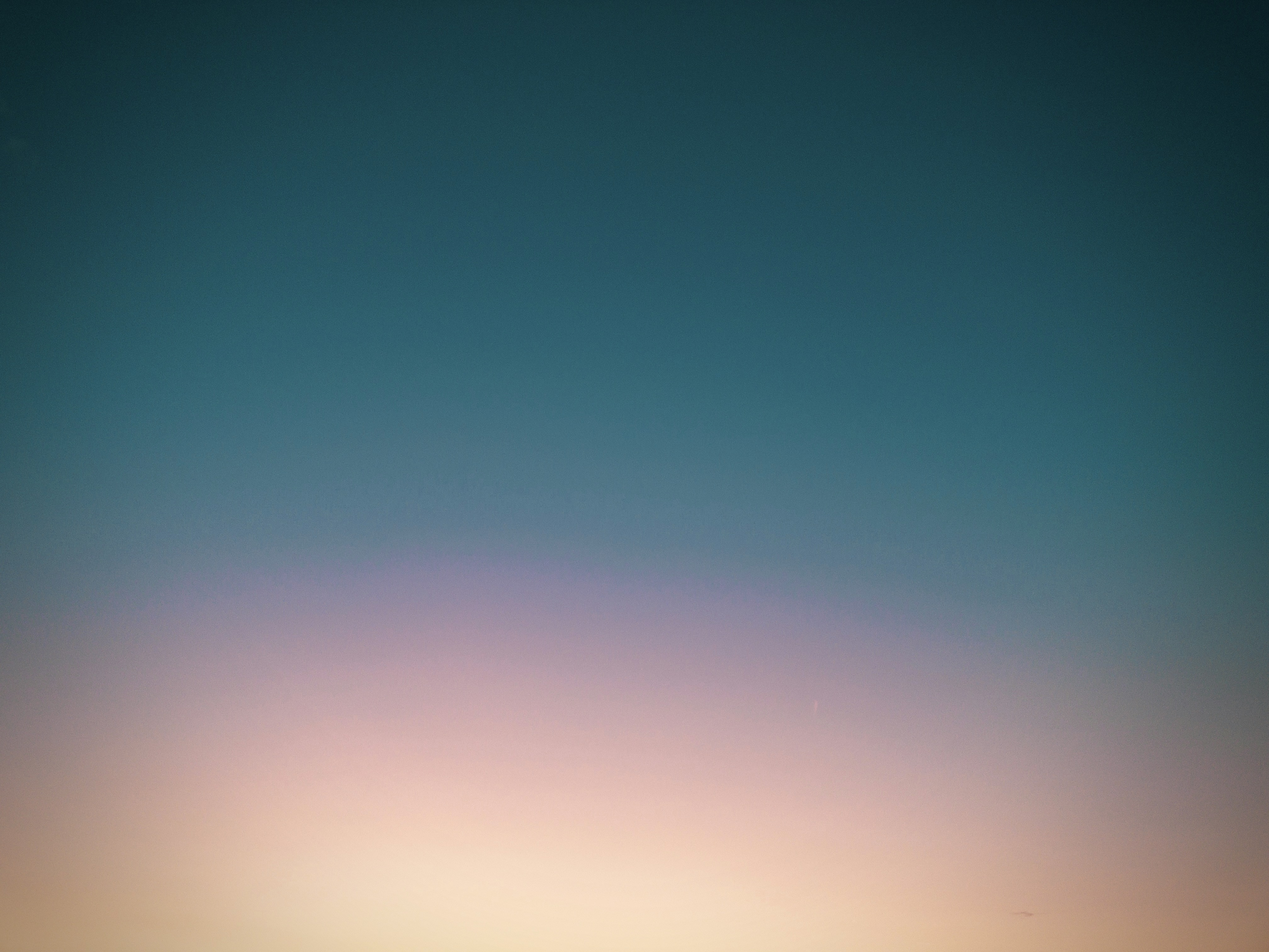
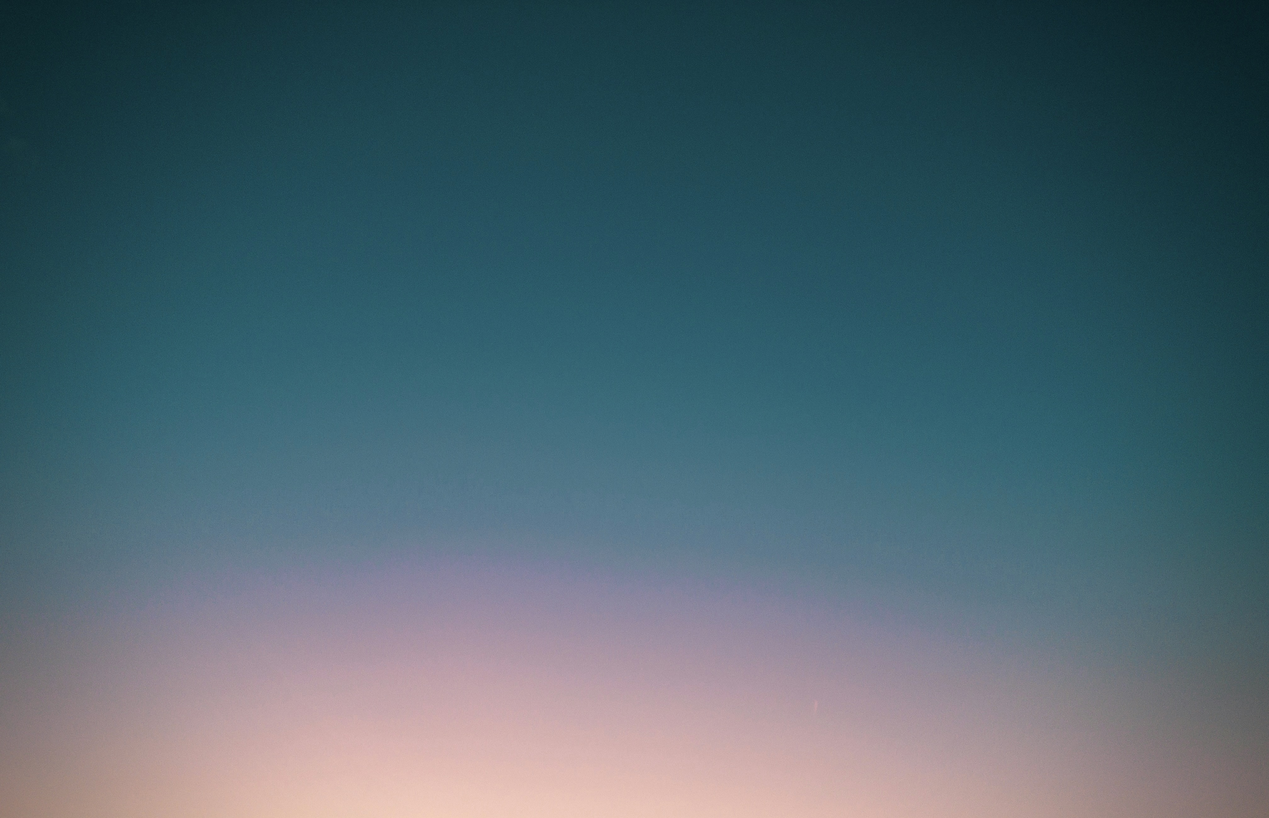
updated project info

diff --git a/index.html b/index.html
@@ -3,7 +3,7 @@
 <head>
 <meta charset="utf-8" />
 <meta name="viewport" content="width=device-width,initial-scale=1" />
-<title>with(in) — hyperSense Showcase, Spring 2026</title>
+<title>hyperSense: Augmenting Human Experience in Environments — Showcase, Spring 2026</title>
 
 <link rel="preconnect" href="https://fonts.googleapis.com" />
 <link rel="preconnect" href="https://fonts.gstatic.com" crossorigin />
@@ -13,7 +13,7 @@
   :root {
     /* light type for use over the teal sky / hero */
     --ink: #fbf3e6;
-    --ink-soft: rgba(251, 243, 230, 0.78);
+    --ink-soft: rgba(251, 243, 230, 0.9);
     --paper: #fbf3e6;
     --line: rgba(251, 243, 230, 0.28);
 
@@ -91,7 +91,7 @@
     width: 6px;
     height: 6px;
     border-radius: 50%;
-    background: var(--ink);
+    background: var(--ink-soft);
     vertical-align: middle;
     margin-right: 8px;
   }
@@ -132,20 +132,9 @@
   .hero-arrow {
     width: 64px;
     height: 1px;
-    background: var(--ink);
+    background: var(--line);
     position: relative;
     margin-top: 20px;
-  }
-  .hero-arrow::before {
-    content: "";
-    position: absolute;
-    left: 0;
-    top: -4px;
-    width: 8px;
-    height: 8px;
-    border-left: 1px solid var(--ink);
-    border-bottom: 1px solid var(--ink);
-    transform: rotate(45deg);
   }
 
   .title-block {
@@ -161,8 +150,8 @@
   .title {
     font-family: var(--serif);
     font-weight: 400;
-    font-size: clamp(96px, 16vw, 240px);
-    line-height: 0.88;
+    font-size: clamp(36px, 4.5vw, 64px);
+    line-height: 1.1;
     letter-spacing: -0.02em;
     color: var(--ink);
     font-feature-settings: "ss01" 1;
@@ -355,9 +344,6 @@
     gap: 60px;
     align-items: start;
   }
-  .project:last-child {
-    border-bottom: 1px solid var(--line);
-  }
   .project .num {
     font-family: var(--serif);
     font-style: italic;
@@ -401,7 +387,7 @@
     grid-template-columns: 1fr;
   }
   .img-placeholder {
-    aspect-ratio: 4/5;
+    aspect-ratio: 16/9;
     border: 1px solid var(--line);
     background:
       repeating-linear-gradient(135deg,
@@ -422,6 +408,12 @@
     letter-spacing: 0.16em;
     text-transform: uppercase;
     color: var(--ink-soft);
+  }
+  .project-img {
+    width: 100%;
+    aspect-ratio: 16/9;
+    object-fit: cover;
+    display: block;
   }
   .project.wip .text h4 {
     color: var(--ink-soft);
@@ -513,8 +505,7 @@
 <!-- ---------- top bar ---------- -->
 <header class="topbar">
   <div class="left">
-    <span class="mark"><em>with(in)</em></span>
-    <span class="micro" style="margin-left:12px;">— Spring 2026</span>
+    <span class="micro">51-361 / 861 — hyperSense · Spring 2026</span>
   </div>
   <div class="right">
     <span class="micro"><span class="dot"></span>Carnegie Mellon · School of Design</span>
@@ -526,134 +517,88 @@
   <div class="left-col">
     <div class="lecturers">
       <span class="label">Faculty</span>
-      Dina El-Zanfaly &amp; Marysol Ortega Pallanez
-      <span class="label" style="margin-top:14px;">Course</span>
-      51-361 / 861 — hyperSense:<br />Augmenting Human Experience
+      Dina El-Zanfaly
+      <span class="label" style="margin-top:14px;">Teaching Assistant</span>
+      Cheyu Tu
       <div class="hero-arrow"></div>
     </div>
 
     <div class="title-block">
-      <span class="micro eyebrow">An invitation · A showcase</span>
-      <h1 class="title">with<span class="paren">(</span><span class="in">in</span><span class="paren">)</span></h1>
-      <p class="subtitle">Introspection &amp; collective reflection.</p>
-      <p class="subtitle-2">CMU 51-361/861 hyperSense: Augmenting Human Experience — Showcase, Spring 2026. A set of activities, conversations &amp; games that reflect on the nature of design process.</p>
+      <h1 class="title">51-361/861<br/><em>hyperSense:</em> Augmenting human experience in Environments</em></h1>
     </div>
   </div>
 
   <div class="right-col">
-    <div class="vert-date">11 / 30</div>
+    <div class="vert-date">04 / 27</div>
 
     <div class="meta-block">
       <div class="meta-row">
         <span class="k">Date</span>
-        <span class="v">November 30, 2021</span>
+        <span class="v">Tuesday, April 27, 2026</span>
       </div>
       <div class="meta-row">
         <span class="k">Time</span>
-        <span class="v">11:00 AM — 12:30 PM</span>
+        <span class="v">3:15 PM — 4:45 PM</span>
       </div>
       <div class="meta-row">
         <span class="k">Location</span>
-        <span class="v">School of Design, CMU</span>
+        <span class="v">MMH 127<br/>Spatial Experiences Lab</span>
       </div>
-      <a class="rsvp" href="#" aria-label="RSVP">
-        RSVP here
-        <span class="arrow">→</span>
-      </a>
-    </div>
-  </div>
-</section>
-
-<!-- ---------- intro ---------- -->
-<section class="intro">
-  <div class="intro-grid">
-    <div class="label-col">
-      <span class="micro">§ 01 — An invitation</span>
-      <h2>Inquiry,<br/>introspection,<br/>&amp; sharing.</h2>
-    </div>
-    <div class="prose-col">
-      <p><em>With(in)</em> is the culmination of the Seminar in Design Theory &amp; Practice — taught by Dina El-Zanfaly &amp; Marysol Ortega Pallanez for PhD and MDes students at Carnegie Mellon's School of Design.</p>
-      <p>We invite you to engage in a set of activities, conversations &amp; games that reflect on the nature of a design process rooted in inquiry, introspection &amp; sharing.</p>
     </div>
   </div>
 </section>
 
 <!-- ---------- projects ---------- -->
-<div class="section-head">
-  <h3>Five projects.</h3>
-  <span class="count">§ 02 — On view</span>
-</div>
-
 <section class="projects">
 
   <!-- Project 1 -->
-  <article class="project">
+  <article class="project single">
     <div class="num">i.</div>
     <div class="text">
       <h4>Proximity <em>Garden</em></h4>
-      <p>Proximity Garden is an interactive floor projection system that fosters connection between strangers through playful, embodied interaction. Using real‑time body tracking, the system detects interpersonal proximity and responds — lotus flowers blooming around people's feet.</p>
-      <div class="author">— Sujin</div>
+      <p>Proximity Garden is an interactive floor projection system that fosters connection between strangers through playful, embodied interaction. Using real-time body tracking, the system detects interpersonal proximity and responds by lotus flowers blooming around people's feet.</p>
     </div>
     <div class="images">
-      <div class="img-placeholder"><span>Floor projection<br/>— stills</span></div>
-      <div class="img-placeholder"><span>Bloom detail<br/>— close‑up</span></div>
+      <img class="project-img" src="assets/Proximity Garden.png" alt="Proximity Garden — floor projection" />
     </div>
   </article>
 
   <!-- Project 2 -->
-  <article class="project">
+  <article class="project single">
     <div class="num">ii.</div>
     <div class="text">
       <h4>It Takes Two to Make a <em>Squiggle Wiggle</em></h4>
-      <p>A tangible, AI‑assisted drawing experience that brings participants' sketches to life — supporting divergent thinking and social co‑creation in real time, while keeping the human as the dominant creative agent.</p>
-      <p style="font-size:14px; margin-top:12px; color:var(--ink-soft);">A human‑centered framing of AI‑assisted creativity, with implications for designing tangible co‑creative systems that preserve authorship and collaborative imagination.</p>
-      <div class="author">— Mary</div>
+      <p>This project investigates a tangible AI drawing experience that supports divergent thinking and social co-creation while keeping the human as the dominant creative agent. We contribute a human-centered framing of AI-assisted creativity and
+outlines implications for designing tangible co-creative systems that preserve authorship and collaborative imagination.</p>
     </div>
     <div class="images">
-      <div class="img-placeholder"><span>Tangible interface<br/>— in use</span></div>
-      <div class="img-placeholder"><span>Co‑drawn output<br/>— sketch</span></div>
+      <img class="project-img" src="assets/It Takes Two.jpg" alt="It Takes Two to Make a Squiggle Wiggle — tangible interface" />
     </div>
   </article>
 
   <!-- Project 3 -->
-  <article class="project wip">
+  <article class="project single">
     <div class="num">iii.</div>
     <div class="text">
-      <span class="wip-pill">Work in progress</span>
-      <h4><em>Untitled</em> — coming soon</h4>
-      <p>A new chapter, still in formation. Details &amp; imagery will arrive shortly before the showcase.</p>
-      <div class="author">— Erica</div>
+      <h4><em>Zora</em></h4>
+      <p>Zora is a smart scent diffuser that creates personalized olfactory environments through natural language voice or text input.</p>
+      <p style="margin-top:12px;">Users describe a desired feeling, vibe, or memory, and Zora interprets the prompt, factors in personal scent associations, and cross-references available cartridges to generate a custom blend while adjusting timing and intensity automatically. By learning about each individual's unique scent associations, it delivers experiences that feel personal and emotionally resonant. Zora reduces the cognitive load of scent selection and creates a guided experience for relaxation and wellbeing.</p>
     </div>
-    <div class="images single">
-      <div class="img-placeholder"><span>Image to come</span></div>
+    <div class="images">
+      <img class="project-img" src="assets/Zora.jpg" alt="Zora — smart scent diffuser" />
     </div>
   </article>
 
   <!-- Project 4 -->
-  <article class="project wip">
+  <article class="project single">
     <div class="num">iv.</div>
     <div class="text">
-      <span class="wip-pill">Work in progress</span>
-      <h4><em>Untitled</em> — coming soon</h4>
-      <p>A new chapter, still in formation. Details &amp; imagery will arrive shortly before the showcase.</p>
-      <div class="author">— Evan</div>
+      <h4>Peter Pan, <em>Where Did the Shadow Go?</em></h4>
+      <p>Peter Pan is a screenless generative AI interactive system that explores new possibilities for human‑AI interaction within physical spaces. Powered by spatial sensing and semantic reasoning, the AI interprets spatial configurations and human behaviors, then manifests itself through projected shadows in the environment.</p>
+      <p style="margin-top:12px;">Users engage in spatial negotiation with the agent by rearranging objects or through bodily intervention, creating a dynamic bi‑directional collaboration beyond one‑way command‑response patterns. Peter Pan investigates how context‑aware AI can establish a shared spatial agency grounded in the physical world.</p>
     </div>
-    <div class="images single">
-      <div class="img-placeholder"><span>Image to come</span></div>
-    </div>
-  </article>
-
-  <!-- Project 5 -->
-  <article class="project wip">
-    <div class="num">v.</div>
-    <div class="text">
-      <span class="wip-pill">Work in progress</span>
-      <h4><em>Untitled</em> — coming soon</h4>
-      <p>A new chapter, still in formation. Details &amp; imagery will arrive shortly before the showcase.</p>
-      <div class="author">— James</div>
-    </div>
-    <div class="images single">
-      <div class="img-placeholder"><span>Image to come</span></div>
+    <div class="images">
+      <img class="project-img" src="assets/Peter Pan.jpg" alt="Peter Pan, Where Did the Shadow Go? — projected shadows" />
     </div>
   </article>
 
@@ -662,13 +607,13 @@
 <!-- ---------- footer ---------- -->
 <footer class="footer">
   <div class="footer-inner">
-    <div class="big"><em>See you<br/>with(in).</em></div>
+    <div class="big"><em>See you<br/>there.</em></div>
     <div class="meta">
       Carnegie Mellon University<br/>
       School of Design<br/>
       hyperSense · Spring 2026<br/>
       <br/>
-      <a href="#" style="color:inherit; text-decoration:none; border-bottom:1px solid var(--line);">RSVP →</a>
+      Tuesday, April 27 · MMH 127
     </div>
   </div>
 </footer>
